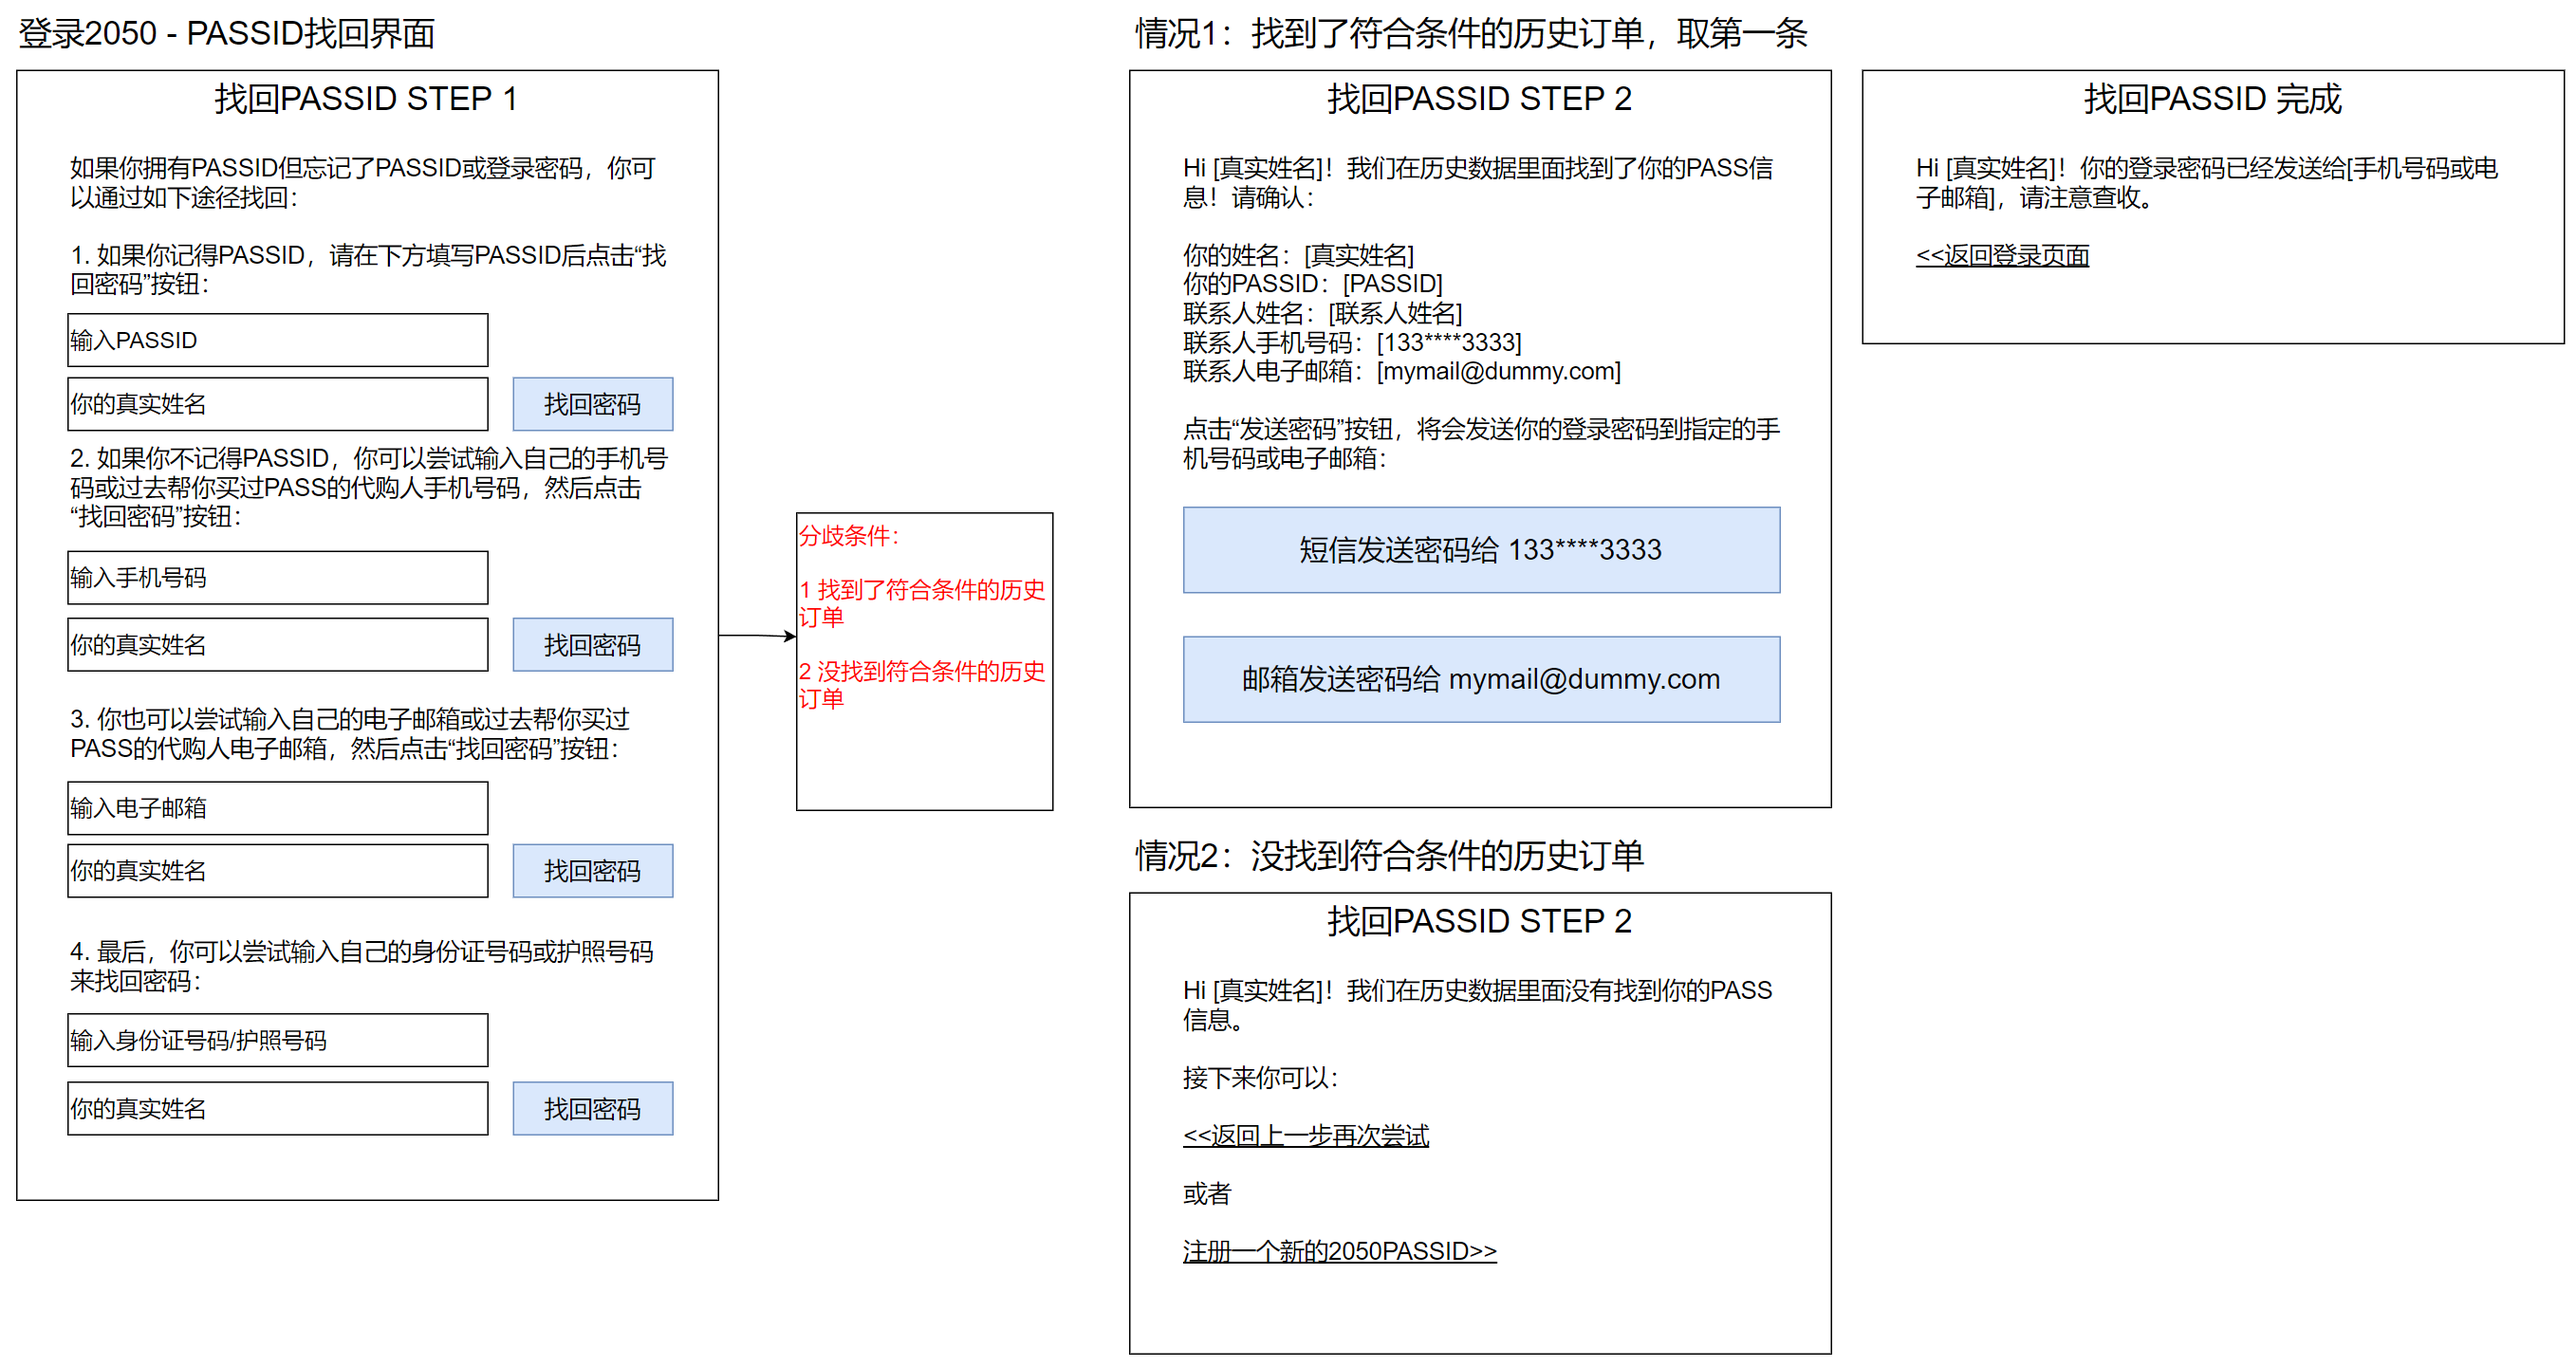
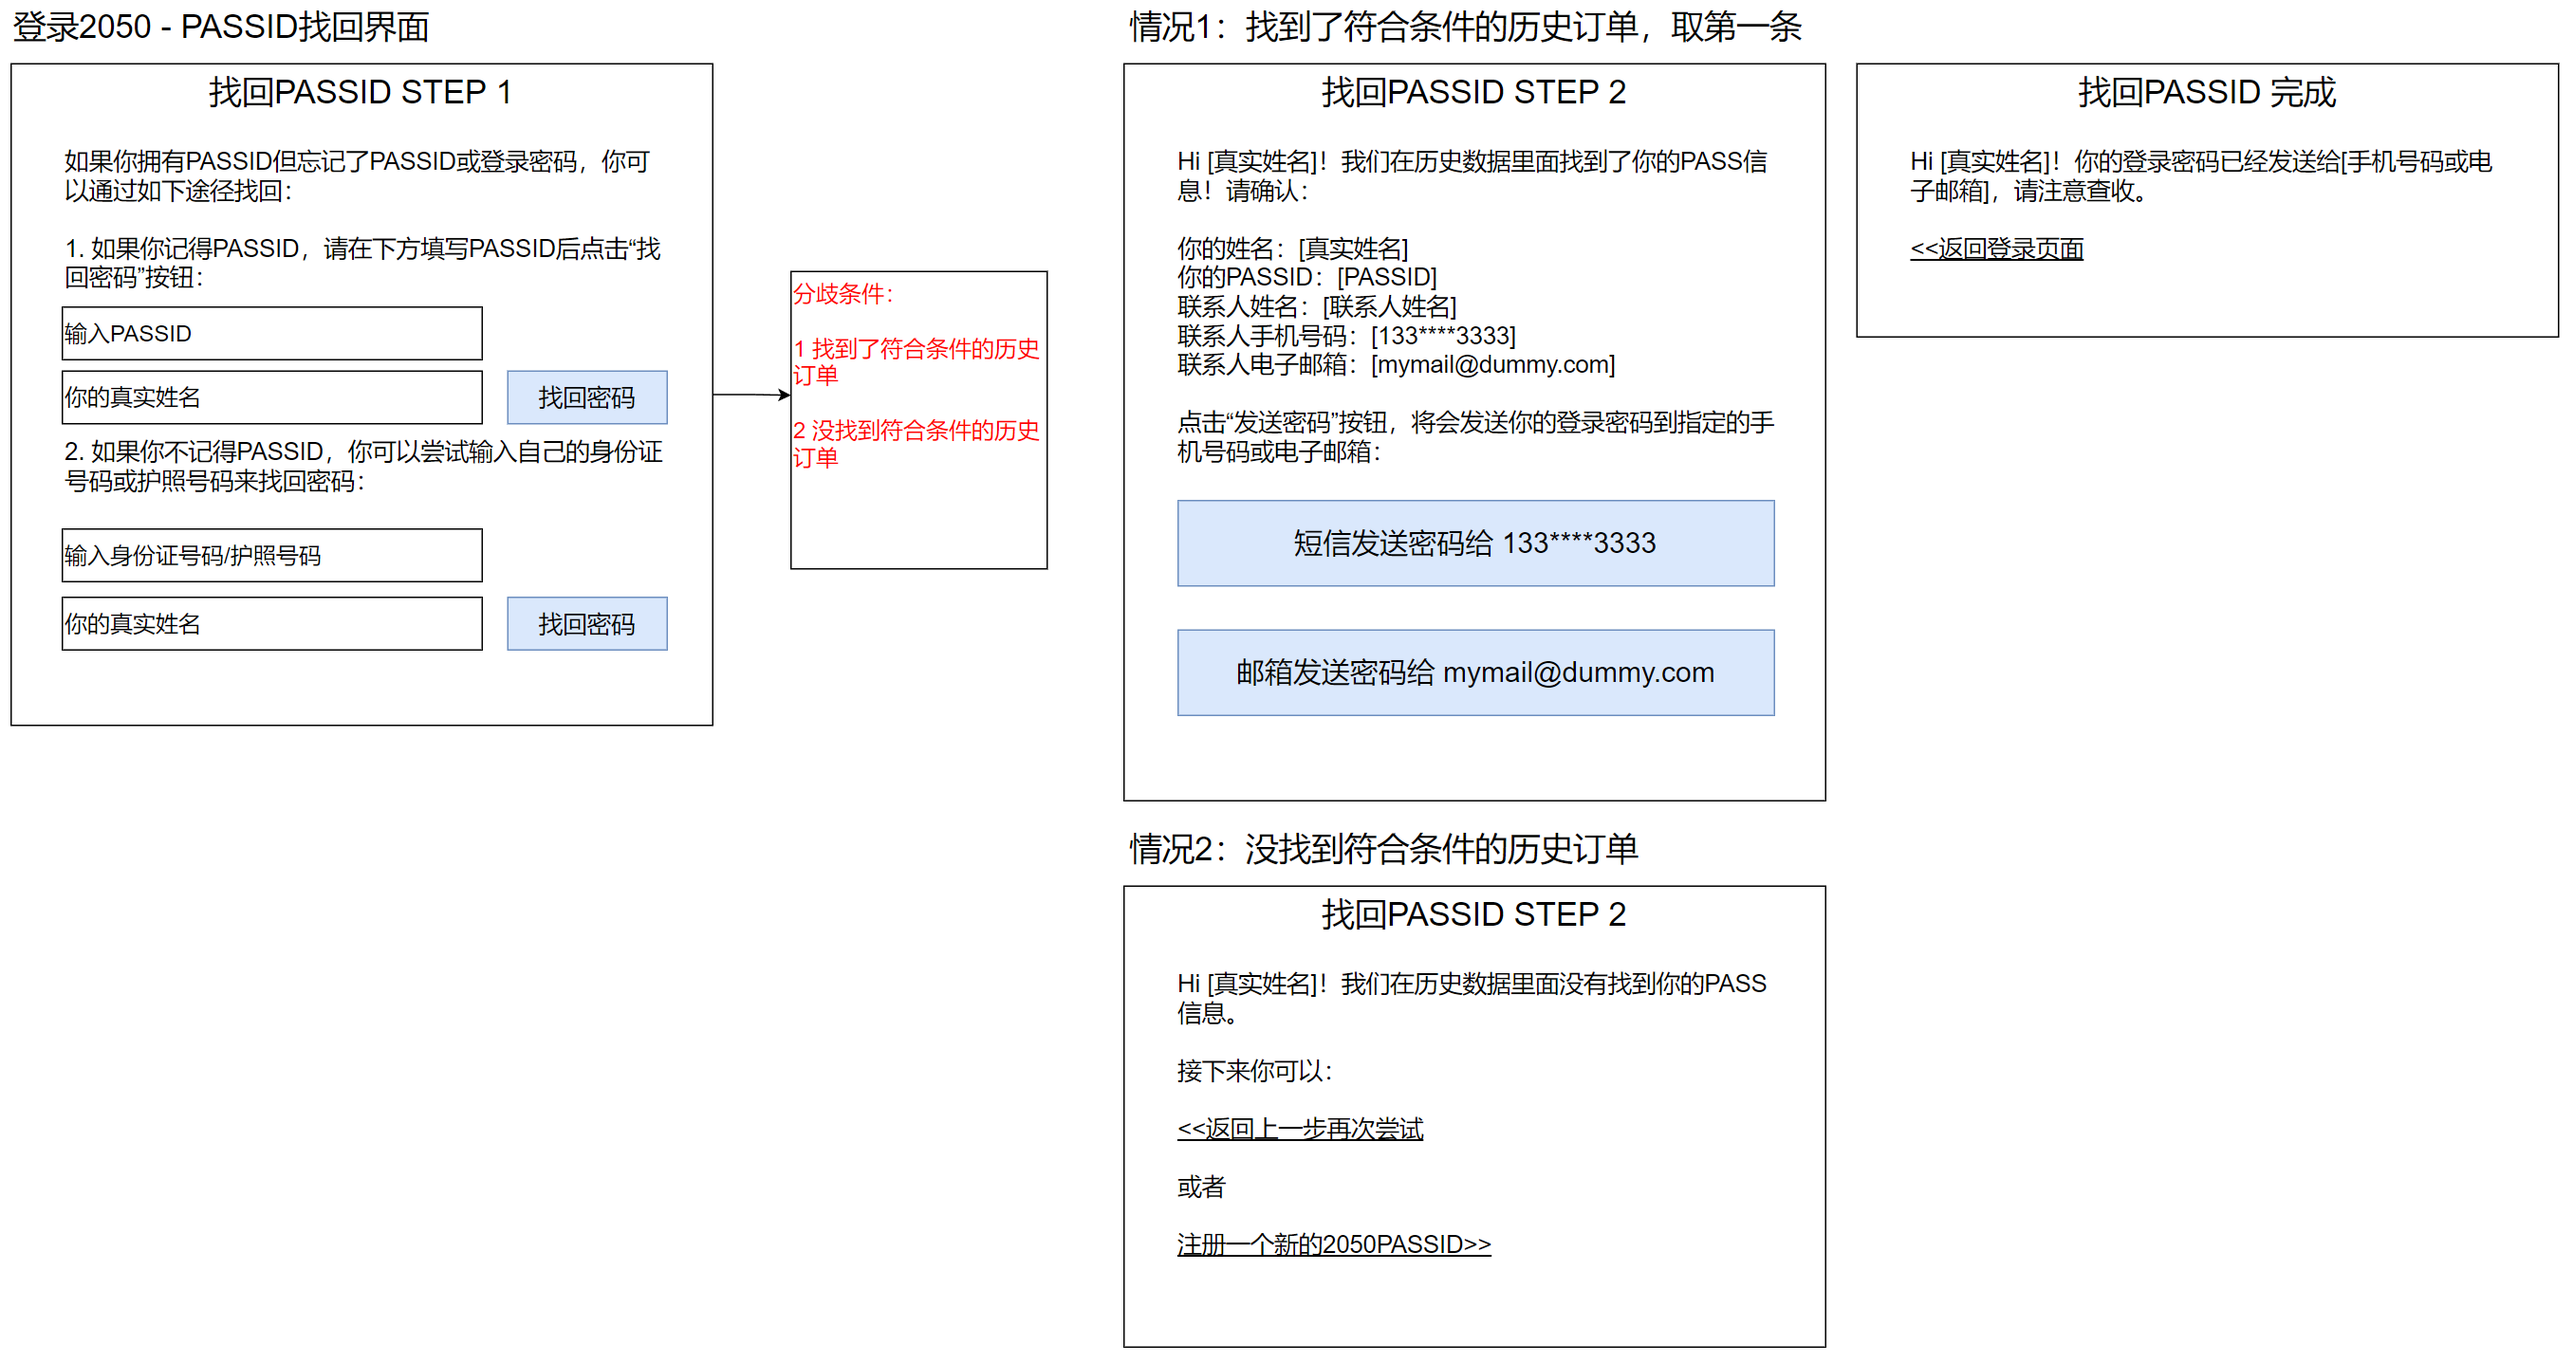
更新PASS激活流程与用户登录页面

diff --git a/sidebars.js b/sidebars.js
@@ -46,7 +46,6 @@ module.exports = {
         dirName: 'prd/containers',
       }],
     },
-    'prd/pass',
     'prd/frontpage',
   ], 
 };

diff --git a/docs/prd/user/10-userlogin.md b/docs/prd/user/10-userlogin.md
@@ -1,46 +1,139 @@
 # 用户注册与登录
 
-todo: 本页面需要更新 20220121
-
 ## 组件说明
 
 用户注册与登录是网站的基本功能。2050网站对于用户注册与登录的功能需求如下：
 
-1. 支持提供token给PASS系统（订单系统）作为单点登录的凭证
+1. 支持国内手机号码+验证码注册登录
+1. 支持国际手机号码+验证码注册登录
 1. 支持PASSID+密码登录
 1. 支持手机号码+密码登录
 1. 支持邮箱+密码登录
-1. 支持国内手机号码+验证码注册登录
-1. 支持国际手机号码+验证码注册登录
 1. 支持邮箱+验证码登录
+1. 支持提供token给PASS系统（订单系统）作为单点登录的凭证
 
 ## 登录入口
 
 见后续“[作为登录入口的顶部导航栏](navbar)”章节。
 
-## 不同登录方式的界面
+## 注册
+
+2050网站使用手机号+验证码的方式注册。
+
+![](../3/mobile-login.png)
+
+图中文字：
+
+- 登录2050
+- 密码登录
+- 手机登录
+- 邮箱登录
+- 手机号
+- 输入6位短信验证码
+- 获取短信验证码
+- 登录
+- 手机验证后自动登录，登录即代表同意遵守中华人民共和国相关法律法规的所有规定。
+
+用户点击“登录”后，识别该用户是否第一次登录。
+
+- case 1 该用户不是第一次登录，让其登录对应的PASSID进入网站。
+- case 2 该用户是第一次登录，启动注册流程：
+
+![](../3/mobile-first-login.png)
+
+图中文字：
+
+- Hi [手机号码(掩码)]！我们将要确认你日后登录2050网站的PASSID。
+- 情况1：如果你来过2019年或2021年的2050大会现场，那么你已经拥有PASSID，**我们强烈建议你使用之前的PASSID登录- 2050网站！**
+- 找回我的PASSID与密码
+- 情况2：如果你没有来过2050大会现场，那么你可以创建新的PASSID：
+- 创建新的PASSID
+
+### PASSID找回密码页面
+
+![](../3/passid-login-recover.png)
+
+图中文字：
+
+- 如果你拥有PASSID但忘记了PASSID或登录密码，你可以通过如下途径找回：
+- 1. 如果你记得PASSID，请在下方填写PASSID后点击“找回密码”按钮：
+- 输入PASSID
+- 你的真实姓名
+- 找回密码
+- 2. 如果你不记得PASSID，你可以尝试输入自己的身份证号码或护照号码来找回密码：
+- 输入身份证号码/护照号码
+- 你的真实姓名
+- 找回密码
+- Hi [真实姓名]！我们在历史数据里面找到了你的PASS信息！请确认：
+- 你的姓名：[真实姓名]
+- 你的PASSID：[PASSID]
+- 联系人姓名：[联系人姓名]
+- 联系人手机号码：[133****3333]
+- 联系人电子邮箱：[mymail@dummy.com]
+- 点击“发送密码”按钮，将会发送你的登录密码到指定的手机号码或电子邮箱：
+- 短信发送密码给 133****3333
+- 邮箱发送密码给 mymail@dummy.com
+- Hi [真实姓名]！我们在历史数据里面没有找到你的PASS信息。
+- 接下来你可以：
+- <<返回上一步再次尝试
+- 或者
+- 注册一个新的2050PASSID>>
+- Hi [真实姓名]！你的登录密码已经发送给[手机号码或电子邮箱]，请注意查收。
+- <<返回登录页面
+
+### 首次登录完善个人信息页面
+
+用户首次登录，或者用户登录后发现个人信息尚未完善的，弹出提示信息
+
+![](../3/user-first-login.png)
+
+注意：如果用户信息未完善，则每次登录后都会显示此提示。后续当用户要发起蜂巢和活动时，如果用户信息未完善，也会显示此提示。**必须要完善这里的个人信息才能够继续进行蜂巢和活动的创建。**
+
+图中文字：
+
+- Hi [PASSID]，这是你第一次登录2050网站！
+- 请完善你的个人信息：
+- 登录手机*
+- 登录邮箱*
+- 上传头像*  上传jpg或png文件 或 使用默认头像
+- 姓名*
+- 英文姓名*
+- 城市*
+- 一句话介绍
+- 公开显示的联系方式
+- 修改密码（留空则不修改）
+- 你是被谁interface来到2050的？
+- 保存并继续
+
+## 登录
 
 ### 使用PASSID/手机号/邮箱+密码登录
 
 ![](../3/password-login.png)
 
-### 使用PASSID找回密码
+图中文字：
 
-![](../3/passid-login-recover.png)
+- 如果你已经拥有一个PASSID（参与过2050@2019或者2050@2020&2021），你可以直接使用该PASSID登录2050网站——
+- 你的PASSID、手机号或邮箱
+- 密码
+- 登录
+- 不知道PASSID或密码请点击这里找回>>
 
-### 使用手机号+验证码注册/登录
+登录失败（用户不存在或者密码错误）则在输入框上方显示错误信息：
 
-![](../3/mobile-login.png)
+- 用户名或密码错误。
+
+### 使用手机号+验证码登录
+
+同“使用手机号+验证码注册”。
 
 ### 使用邮箱+验证码登录
 
 ![](../3/email-login.png)
 
-### 用户首次登录，或者用户登录后发现个人信息尚未完善的，弹出提示信息
+登录失败（用户不存在或者验证码错误）则在输入框上方显示错误信息：
 
-![](../3/user-first-login.png)
-
-注意：如果用户信息未完善，则每次登录后都会显示此提示。后续当用户要发起蜂巢和活动时，如果用户信息未完善，也会显示此提示，必须要完善这里的个人信息才能够继续进行蜂巢和活动的创建。
+- 邮箱或验证码错误。
 
 ## 用户实名信息收集最低要求
 
@@ -48,7 +141,6 @@ todo: 本页面需要更新 20220121
 
 以下列出每一种用户行为最低需要收集的个人信息：
 
-- 注册成为网站用户：一个经过验证的电子邮箱
-- 在网站发起蜂巢和发起活动：一个经过验证的手机号码
-- 激活PASS：身份证实名验证
+- 注册成为网站用户：一个经过验证的手机号码
+- 激活PASS：身份证号码+真实姓名
 

diff --git a/docs/prd/6-pass.md b/docs/prd/6-pass.md
@@ -1,23 +1,5 @@
 # PASS激活（下单订购）流程
 
-todo: 本页面内容需要更新 20210121
-
-## 作为大会进场凭证的PASS
-
-每年4月底，三天的2050大会，每一个进场的人都拥有一个PASSID作为身份标识。这一个PASSID是：
-
-1. 被付费激活过的（3日330元或2日660元）
-1. 能够对应到持有者的身份证或护照号码
-1. 跟持有者姓名一起被激光打印在一个金属牌子上
-1. 同时也可以激活逐日晨跑、星空露营等付费的附加项
-1. 同时也可以用来登录2050网站
-
-从国家法律法规而言，[《群众性文化体育活动治安管理办法》](http://www.gov.cn/gongbao/content/2000/content_60116.htm)当中要求对于入场票证的管理、查验措施，在2050大会所对应的这个“入场票证”，实际可以对应到付费激活的每一张具体订单。
-
-付费激活并无线下入口，只有一个唯一的线上入口[getmypass.2050.org.cn](https://getmypass.2050.org.cn)。
-
-一个用户首先需要登录2050网站，然后才能进行激活PASS的操作。
-
 其中，激活PASS的操作分两种情况：
 
 1. 用户付费激活自己的PASS
@@ -25,7 +7,6 @@ todo: 本页面内容需要更新 20210121
 
 第二种情况常见于自愿者带来子女/父母/亲戚朋友、或者公司组织员工、学校组织师生一起来参加2050的场景。因此，批量激活多张PASS也是常见的需求。
 
-现将PASS激活入口页面设计如下：
 
 ## 为自己激活PASS
 

diff --git a/docs/prd/user/02-activate-passid.md b/docs/prd/user/02-activate-passid.md
@@ -1,0 +1,19 @@
+# PASSID的激活
+
+## 作为大会进场凭证的PASSID
+
+每年4月底，三天的2050大会，每一个进场的人都拥有一个PASSID作为身份标识。这一个PASSID是：
+
+1. 被付费激活过的（3日330元或2日660元）
+1. 能够对应到持有者的身份证或护照号码
+1. 跟持有者姓名一起被激光打印在一个金属牌子上
+1. 同时也可以激活逐日晨跑、星空露营等付费的附加项
+1. 同时也可以用来登录2050网站
+
+付费激活并无线下入口，只有一个唯一的线上入口[getmypass.2050.org.cn](https://getmypass.2050.org.cn)。
+
+一个用户必须要**完成手机号+邮箱的验证**，然后才能进行付费下单的操作。
+
+## 下单付费到激活PASSID全流程图
+
+![](../3/workflow-order-activate-passid.png)
